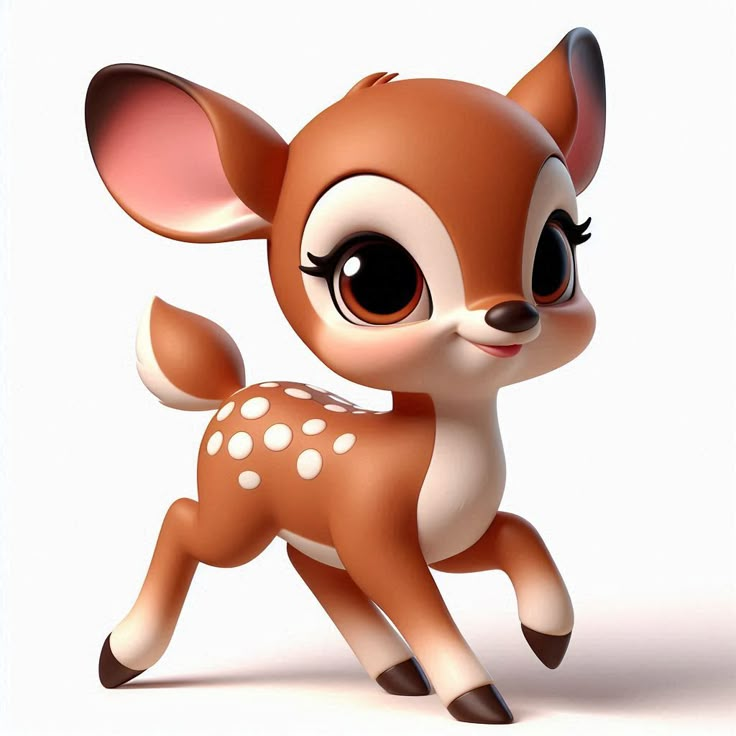
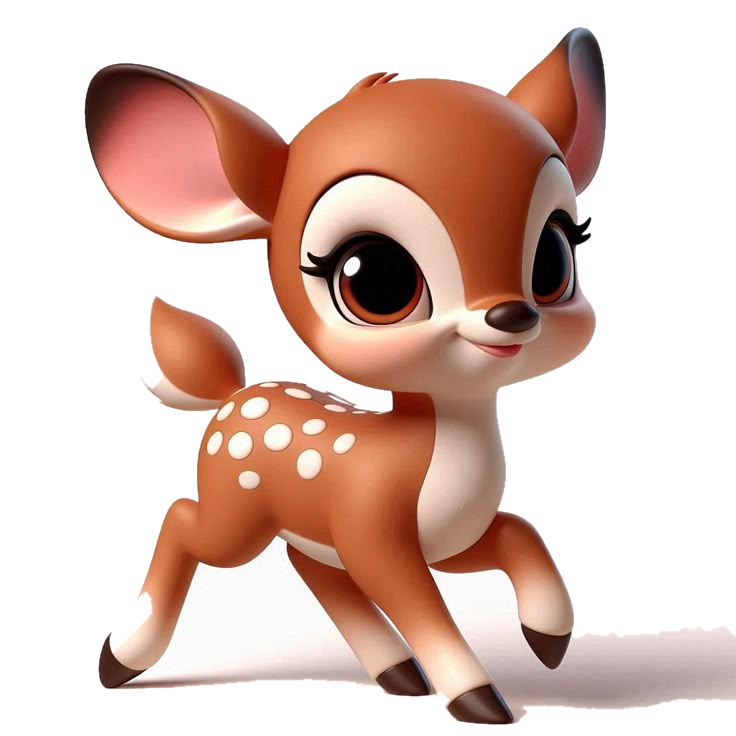
Remove fundo branco dos cliparts, deixando-os realmente transparentes (PNG com alpha)

diff --git a/Convite-Danielle-Branca-de-Neve.html b/Convite-Danielle-Branca-de-Neve.html
@@ -158,12 +158,12 @@
   }
   .hero-rsvp .rsvp-actions{gap:10px;}
   .rsvp-btn.small{padding:10px 20px;font-size:.82rem;}
-  .hero-critter{position:absolute;z-index:1;animation:floaty 4.5s ease-in-out infinite;filter:drop-shadow(0 8px 12px rgba(0,0,0,.12));}
-  .deco-critter{position:absolute;z-index:1;border-radius:18px;animation:floaty 4.5s ease-in-out infinite;filter:drop-shadow(0 8px 12px rgba(0,0,0,.1));}
+  .hero-critter{position:absolute;z-index:1;animation:floaty 4.5s ease-in-out infinite;filter:drop-shadow(0 8px 10px rgba(0,0,0,.18));}
+  .deco-critter{position:absolute;z-index:1;animation:floaty 4.5s ease-in-out infinite;filter:drop-shadow(0 8px 10px rgba(0,0,0,.15));}
   @media (max-width:680px){.deco-critter{display:none;}}
-  .storybook-img{width:190px;margin:0 auto 26px;border-radius:32px;box-shadow:0 14px 30px rgba(120,160,120,.25);animation:floaty 5s ease-in-out infinite;}
-  .icon-row img{width:58px;height:58px;border-radius:50%;object-fit:cover;border:3px solid #fff;box-shadow:0 6px 14px rgba(0,0,0,.15);background:#fff;}
-  .footer-mascot{width:130px;margin:0 auto 14px;border-radius:26px;box-shadow:0 12px 26px rgba(0,0,0,.25);animation:floaty 5s ease-in-out infinite;}
+  .storybook-img{width:190px;margin:0 auto 10px;object-fit:contain;animation:floaty 5s ease-in-out infinite;filter:drop-shadow(0 14px 16px rgba(90,70,50,.25));}
+  .icon-row img{width:60px;height:60px;object-fit:contain;filter:drop-shadow(0 5px 8px rgba(0,0,0,.2));}
+  .footer-mascot{width:150px;margin:0 auto 6px;object-fit:contain;animation:floaty 5s ease-in-out infinite;filter:drop-shadow(0 12px 14px rgba(0,0,0,.35));}
   .frame .ribbon{
     position:absolute;top:-22px;left:50%;transform:translateX(-50%);
     background:var(--blush-darker);color:#fff;
@@ -398,7 +398,7 @@
 <section id="ch1">
   <div class="wrap reveal">
     <span class="chapter-num">Capítulo I</span>
-    <img class="storybook-img" src="img-princesa.jpeg" alt="Baby Branca de Neve">
+    <img class="storybook-img" src="img-princesa.png" alt="Baby Branca de Neve">
     <h2>Era uma vez...</h2>
     <p class="story-text">
       ...uma princesinha chamada Danielle, com lábios vermelhos como a maçã, sorriso doce como o conto
@@ -408,7 +408,7 @@
     </p>
     <div class="icon-row">
       <span>🍎</span>
-      <img src="img-anao.jpeg" alt="anãozinho">
+      <img src="img-anao.png" alt="anãozinho">
       <img src="img-corca.png" alt="corça">
       <img src="img-passaro.png" alt="passarinho">
       <img src="img-coelho.png" alt="coelhinho">
@@ -420,7 +420,7 @@
 <!-- ================= CHAPTER II — DETAILS ================= -->
 <section id="ch2">
   <img class="deco-critter" src="img-corca.png" alt="" style="width:80px;top:6%;right:5%;animation-delay:.2s;">
-  <img class="deco-critter" src="img-anao.jpeg" alt="" style="width:72px;bottom:8%;left:4%;animation-delay:.8s;">
+  <img class="deco-critter" src="img-anao.png" alt="" style="width:72px;bottom:8%;left:4%;animation-delay:.8s;">
   <div class="wrap reveal">
     <span class="chapter-num">Capítulo II</span>
     <h2>Quando & Onde</h2>
@@ -474,7 +474,7 @@
 
 <!-- ================= CHAPTER IV — RSVP ================= -->
 <section id="ch4">
-  <img class="deco-critter" src="img-anao2.jpeg" alt="" style="width:76px;top:7%;right:5%;animation-delay:.3s;">
+  <img class="deco-critter" src="img-anao2.png" alt="" style="width:76px;top:7%;right:5%;animation-delay:.3s;">
   <img class="deco-critter" src="img-corca.png" alt="" style="width:74px;bottom:7%;left:5%;animation-delay:.9s;">
   <div class="wrap reveal">
     <span class="chapter-num">Capítulo IV</span>
@@ -495,7 +495,7 @@
   <img class="deco-critter" src="img-passaro.png" alt="" style="width:66px;bottom:8%;right:5%;animation-delay:1.3s;">
   <div class="wrap reveal">
     <span class="chapter-num">Capítulo V</span>
-    <img class="storybook-img" style="width:130px;" src="img-anao2.jpeg" alt="anãozinho">
+    <img class="storybook-img" style="width:130px;" src="img-anao2.png" alt="anãozinho">
     <h2>Um toque de conto de fadas</h2>
     <div class="palette-row">
       <span class="swatch" style="background:var(--blush-deep)"></span>
@@ -514,7 +514,7 @@
 
 <!-- ================= FOOTER ================= -->
 <footer>
-  <img class="footer-mascot" src="img-princesa.jpeg" alt="Baby Branca de Neve">
+  <img class="footer-mascot" src="img-princesa.png" alt="Baby Branca de Neve">
   <span class="script">Danielle</span>
   <p>"E foram felizes para sempre" — e essa história de amor começa com você ao nosso lado neste dia tão especial.</p>
   <p class="hosts">Com carinho, Isabelle &amp; Arlan</p>
